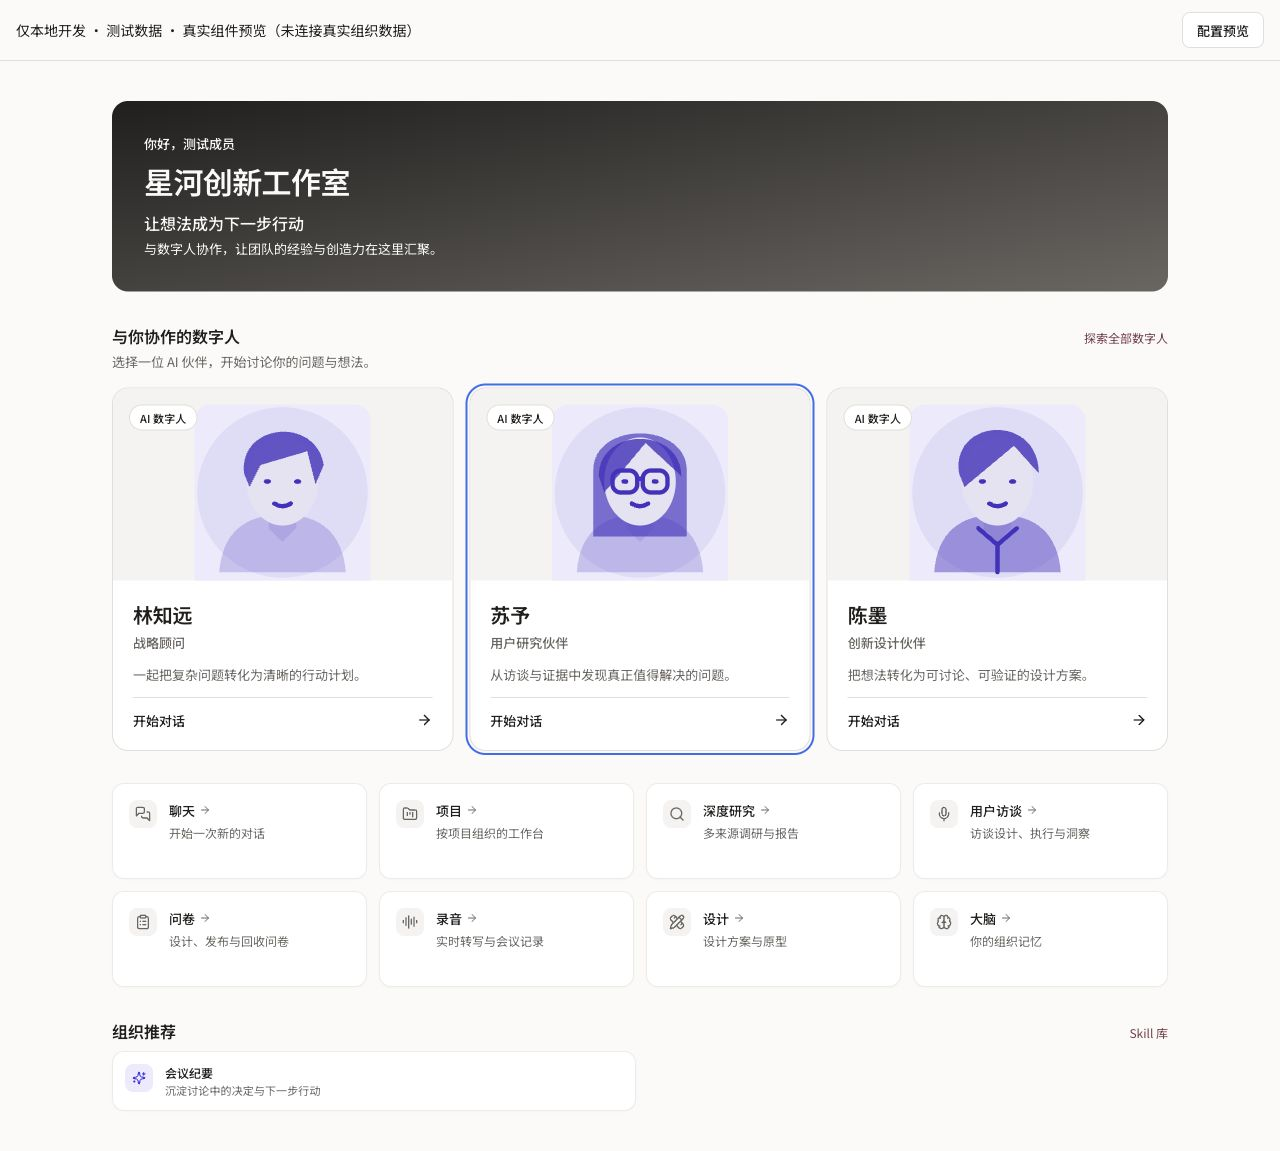
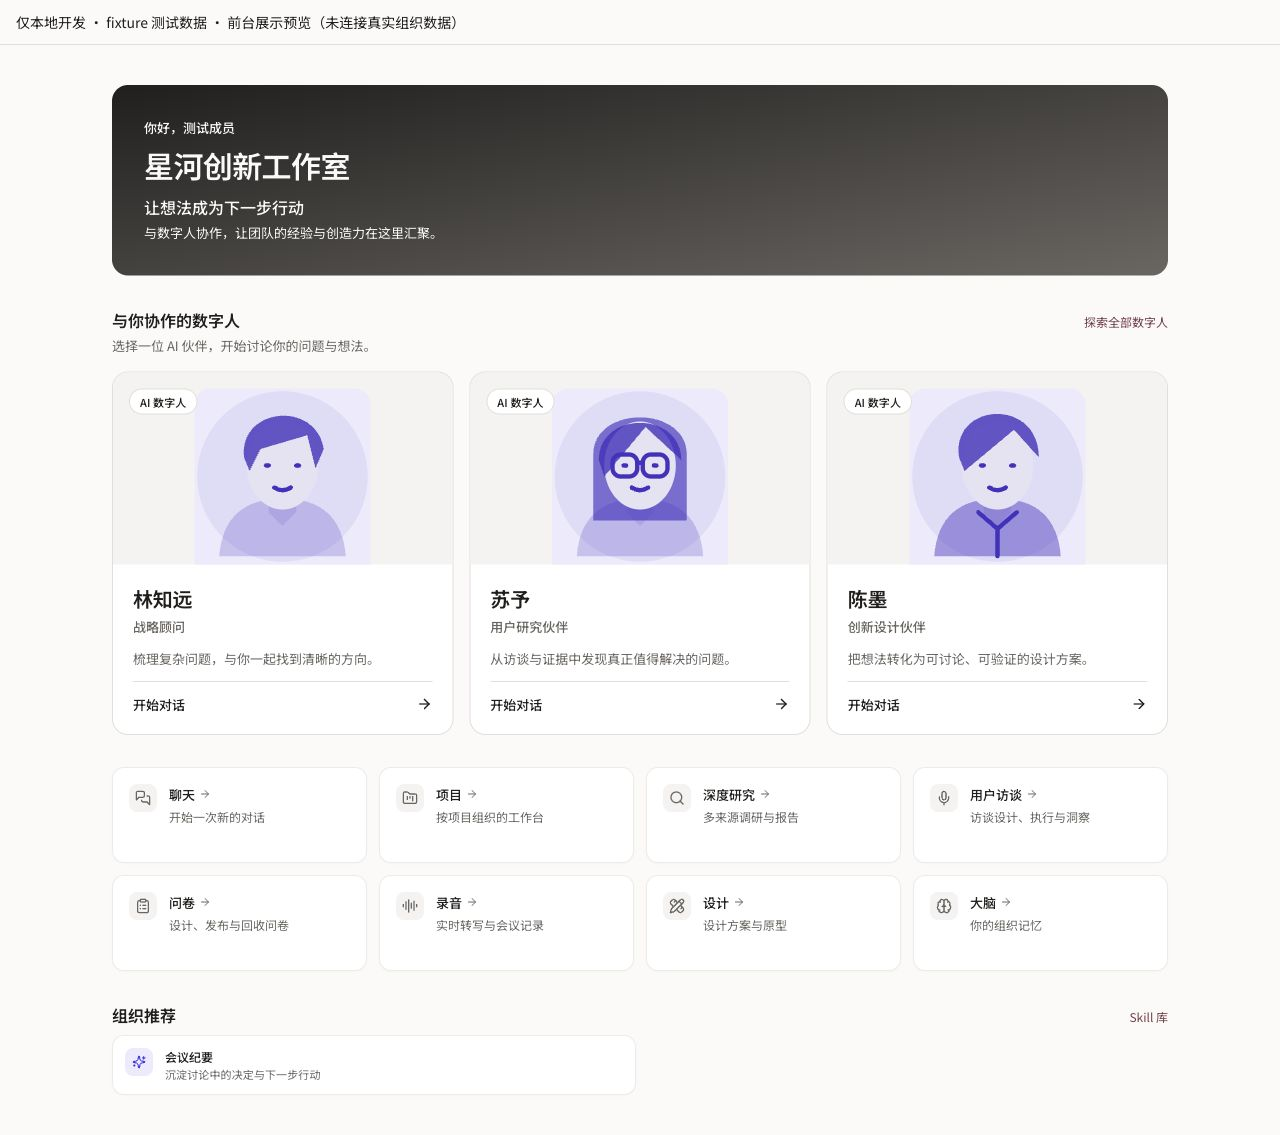
refactor(home): narrow redesign to frontend presentation only

diff --git a/apps/web/tests/ui/home-redesign-presentation.test.tsx b/apps/web/tests/ui/home-redesign-presentation.test.tsx
@@ -1,0 +1,50 @@
+import * as React from "react";
+import { afterEach, describe, expect, it, vi } from "vitest";
+import { cleanup, render, screen } from "@testing-library/react";
+import { HomeView } from "@/components/home/home-screen";
+import { homeThemeStyle } from "@/lib/home-theme";
+import { orgHomeFixture } from "@/tests/fixtures/org-home-redesign";
+
+vi.mock("next/navigation", () => ({ useRouter: () => ({push: vi.fn()}) }));
+vi.mock("@/components/session/session-provider", () => ({useOptionalSession: () => null, useSession: () => ({})}));
+vi.mock("@/components/shell/org-menu", () => ({useOrgAvatarUrl: () => null}));
+vi.mock("@/lib/use-authed-image-src", () => ({useAuthedImageSrc: () => ({src:null})}));
+vi.mock("@/components/home/use-home-work", () => ({
+  useHomeWork: () => ({projects:{status:"ready",items:[]}}), useHomeTasks: () => ({status:"ready",items:null}),
+}));
+afterEach(cleanup);
+describe("前台人物展示读取既有配置", () => {
+  it("展示配置里的角色、用途、头像及编码后的对话入口，不修改输入配置", () => {
+    const config = structuredClone(orgHomeFixture);
+    config.recommendedAgents[0].agentId = "a/1";
+    const before = JSON.stringify(config);
+    render(<HomeView config={config} orgId={null} displayName={null}/>);
+    const link = screen.getByRole("link",{name:"与林知远开始对话 · 战略顾问"});
+    expect(link.getAttribute("href")).toBe("/chat?agent=a%2F1");
+    expect(link.textContent).toContain(config.recommendedAgents[0].note);
+    expect(link.querySelector('[data-avatar-key="person-1"]')).not.toBeNull();
+    expect(link.textContent).not.toMatch(/在线|真人/);
+    expect(JSON.stringify(config)).toBe(before);
+  });
+  it("收到新配置时更新人物信息与入口，不保留过期角色或介绍", () => {
+    const view = render(<HomeView config={orgHomeFixture} orgId={null} displayName={null}/>);
+    const updated = {...orgHomeFixture,recommendedAgents:[{...orgHomeFixture.recommendedAgents[0],agentId:"new/agent",name:"新伙伴",roleLabel:"研究顾问",note:"根据已配置资料帮助梳理研究问题",avatarKey:"person-2"}]};
+    view.rerender(<HomeView config={updated} orgId={null} displayName={null}/>);
+    const link = screen.getByRole("link",{name:"与新伙伴开始对话 · 研究顾问"});
+    expect(link.getAttribute("href")).toBe("/chat?agent=new%2Fagent");
+    expect(link.textContent).toContain(updated.recommendedAgents[0].note);
+    expect(screen.queryByTestId("home-agent-fixture-strategy")).toBeNull();
+  });
+  it("组织未推荐数字人时不编造人物列表", () => {
+    render(<HomeView config={{...orgHomeFixture,recommendedAgents:[]}} orgId={null} displayName={null}/>);
+    expect(screen.queryByTestId("home-agents")).toBeNull();
+  });
+  it("应用既有主题配置，品牌色与键盘焦点色来自同一主题", () => {
+    const colors = {...orgHomeFixture.themeColors!,primary:"#135B78"};
+    render(<HomeView config={{...orgHomeFixture,themeColors:colors}} orgId={null} displayName={null}/>);
+    const style = screen.getByTestId("home-screen").style;
+    const expected = homeThemeStyle(colors) as Record<string,string>;
+    expect(style.getPropertyValue("--primary")).toBe(expected["--primary"]);
+    expect(style.getPropertyValue("--ring")).toBe(expected["--ring"]);
+  });
+});

diff --git a/apps/web/components/org-admin/home-config-recommend-sections.tsx b/apps/web/components/org-admin/home-config-recommend-sections.tsx
@@ -3,7 +3,6 @@ import * as React from "react";
 import Link from "next/link";
 import { Plus, Sparkles, Bot, X } from "lucide-react";
 import { Avatar } from "@/components/ui/avatar";
-import { DigitalHumanPortrait } from "@/components/home/digital-human-portrait";
 import { Button } from "@/components/ui/button";
 import { Input } from "@/components/ui/input";
 import { initialsOf } from "@/lib/home-format";
@@ -78,15 +77,14 @@ export function RecommendedAgentsSection({ form, onChange }: Props) {
           <Plus aria-hidden className="h-3.5 w-3.5" />添加数字人
         </Button>
       </div>
-      <p className="text-12 leading-relaxed text-muted-foreground">首页会展示数字人的形象、角色与一句话介绍。成员点击「开始对话」进入对应数字人的对话。</p>
       {form.recommendedAgents.length === 0 ? <p className="text-11 text-muted-foreground">还没有推荐数字人。</p> : (
         <ul className="flex flex-col gap-2">
           {form.recommendedAgents.map((a) => (
             <li key={a.agentId} className="flex items-start gap-2 rounded-card border border-border-subtle bg-card p-2.5" data-testid={`home-config-agent-${a.agentId}`}>
-              <DigitalHumanPortrait avatarKey={a.avatarKey} initials={initialsOf(a.name)} className="h-20 w-20 shrink-0" />
+              <Avatar initials={initialsOf(a.name)} avatarKey={a.avatarKey} tone="ai" size="lg" />
               <div className="flex min-w-0 flex-1 flex-col gap-1">
                 <span className="text-12 font-medium text-card-foreground">{a.name}{a.roleLabel ? <span className="ml-1.5 text-11 font-normal text-muted-foreground">{a.roleLabel}</span> : null}</span>
-                <Input aria-label={`${a.name}的一句话介绍`} value={a.note ?? ""} placeholder="能帮助成员解决什么问题？（最多 80 字）" maxLength={80} onChange={(e) => setNote(a.agentId, e.target.value)} data-testid={`home-config-agent-note-${a.agentId}`} />
+                <Input value={a.note ?? ""} placeholder="一句话介绍（可选，最多 80 字）" maxLength={80} onChange={(e) => setNote(a.agentId, e.target.value)} data-testid={`home-config-agent-note-${a.agentId}`} />
               </div>
               <Button type="button" size="icon" variant="ghost" aria-label={`移除 ${a.name}`} onClick={() => remove(a.agentId)} data-testid={`home-config-agent-remove-${a.agentId}`}>
                 <X aria-hidden className="h-3.5 w-3.5" />

diff --git a/apps/web/app/dev/org-home-fixture/preview.tsx b/apps/web/app/dev/org-home-fixture/preview.tsx
@@ -1,24 +1,13 @@
 "use client";
-import * as React from "react";
 import { HomeView } from "@/components/home/home-screen";
-import { BasicFieldsSection } from "@/components/org-admin/home-config-appearance-section";
-import { RecommendedAgentsSection } from "@/components/org-admin/home-config-recommend-sections";
-import { toFormState, formToPreviewConfig } from "@/components/org-admin/home-config-form-model";
-import { Button } from "@/components/ui/button";
+import { orgHomeFixture } from "@/tests/fixtures/org-home-redesign";
 
-import { orgHomeFixture as fixture } from "@/tests/fixtures/org-home-redesign";
-
+/** Presentation-only preview. No admin editor, save action or authentication override. */
 export function OrgHomeFixture() {
-  const [form, setForm] = React.useState(() => toFormState(fixture));
-  const [editing, setEditing] = React.useState(false);
   return <main className="min-h-screen bg-background text-foreground">
-    <div className="flex flex-wrap items-center justify-between gap-3 border-b border-border px-4 py-3">
-      <p className="text-sm">仅本地开发 · 测试数据 · 真实组件预览（未连接真实组织数据）</p>
-      <Button variant="outline" onClick={() => setEditing(!editing)}>{editing ? "查看首页" : "配置预览"}</Button>
+    <div className="border-b border-border px-4 py-3">
+      <p className="text-sm">仅本地开发 · fixture 测试数据 · 前台展示预览（未连接真实组织数据）</p>
     </div>
-    {editing ? <div className="mx-auto grid max-w-6xl gap-6 p-4 lg:grid-cols-2">
-      <div className="space-y-4"><BasicFieldsSection form={form} onChange={setForm} /><RecommendedAgentsSection form={form} onChange={setForm} /></div>
-      <div className="min-w-0"><p className="text-xl font-semibold">成员所见 · 未保存配置预览</p><HomeView config={formToPreviewConfig(form,"fixture-only")} orgId={null} displayName="测试成员" /></div>
-    </div> : <HomeView config={formToPreviewConfig(form,"fixture-only")} orgId={null} displayName="测试成员" />}
+    <HomeView config={orgHomeFixture} orgId={null} displayName="测试成员" />
   </main>;
 }

diff --git a/docs/design/org-home-page/redesign-20261014/README.md b/docs/design/org-home-page/redesign-20261014/README.md
@@ -1,60 +1,43 @@
-# 组织首页：数字人协作体验重设计
+# 组织首页前台展示重设计
 
-基线：最新远端 main `98168015c`。既有首页追踪项：Refs #4634。草稿 PR：https://github.com/boardx/workspacex/pull/5699。
+当前范围：只改前台展示。后台配置界面、字段、提交体、数据结构、API 与认证保持原基线。用户已明确要求“后台不要改，只改前段的展示，需要展示的更专业”。本 PR 已撤回此前引入的后台人物编辑界面改动、编辑 fixture 和保存闭环测试。
 
-## 范围与证据
+基线：origin/main `98168015c`。草稿 PR：https://github.com/boardx/workspacex/pull/5699。Refs #4634。
 
-用户确认后台配置后列表已经可见，本次改善的是人物形象、角色/能力说明和首次互动入口，不把可见性当 Skill/Workflow 执行验收。参考附件未收到，不声称看过。
+## 当前设计
 
-现状 /home 在本地跳到登录页；现有 Mac Chrome 页签仅有正式应用域名，没有可确认的非生产会话。没有读取密码/令牌或进入生产数据。后续由用户明确授权使用本地 fixture 继续。所有截图均是实际 HomeView、BasicFieldsSection 与 RecommendedAgentsSection 渲染，搭配明确标注的测试数据，**不是真实组织截图，也不是完整后台鉴权页面截图**。
+- 数字人成为首页主要协作对象：完整人物形象、姓名、角色、既有配置的用途说明及明确“开始对话”入口。
+- 使用现有第一方头像与插画，不臆造身份、在线状态、真实视频或新能力。未知头像保留首字母回落，以通用 AI 图形辅助。
+- 品牌欢迎区更紧凑、标题层级清晰；Logo 在手机也可展示。原有 Logo 上传、自动主题提取及配置读取实现没有改动。
+- 工具入口改为轻量中性面板，减少颜色噪音；网格按可用容器宽度排版，长文案完整换行。
+- 链接保留现有 /chat?agent=，带姓名与角色的可访问名称、键盘焦点环和符合减少动效偏好的提示。
 
-## 审查步骤
+## 截图与审查
 
-1. 修改前首页（01-before-home-fixture.png）：功能入口可识别，但八个大卡占据首屏；数字人只有小头像，人物和角色权重弱，互动没有清晰动词。
-2. 修改后首页（02-after-home-fixture.png）：欢迎区更紧凑，数字人优先；完整人物插画、角色、介绍与“开始对话”形成连贯入口。快捷入口改为中性小面板，减少颜色和视觉噪音。
-3. 后台配置组件（03-after-config-fixture.png）：人物形象与前台共用；介绍输入具有明确可访问名称和能力说明提示。编辑介绍立即更新预览。
-4. 手机配置预览与首页（04-config-mobile.png / 05-home-mobile.png）：375px 无横向溢出，文本完整换行，人物入口有可见焦点。
+仅本地开发的 fixture 明确标注测试数据，复用真实 HomeView。不是真实组织截图，不代表真实服务或能力执行验收。开发预览只在 NODE_ENV=development 且 WSX_HOME_FIXTURE=1 时可用，没有后台编辑器、保存动作或认证覆盖。
 
-## 设计原则与实现
-
-- 数字人是 AI 协作伙伴，有形象、有角色、有说明、有行动入口；明确标注 AI，无真人在线状态。
-- 只使用现有第一方插画/静态头像，不引入真人视频、模型调用、付费服务或新头像数据协议。
-- 未知头像继续保留首字母回落；通用机器人辅助表现 AI 身份，不猜测人物外貌。
-- 让协作对象优先，工具入口退为紧凑中性面板。所有交互使用语义主题 token 和焦点环。
-- Grid 根据容器实际宽度自动排版，后台窄预览不会沿用整屏桌面列数。
-- 组织 Logo 在手机上也可呈现；现有鉴权图片读取、Logo 上传、自动计算配色、保存与主题应用链路保持原有实现。
-- 同一 HomeView 继续服务首页与后台预览；权限守卫、API、契约、数据库和发布管线均没有修改。
+1. 修改前首页（01-before-home-fixture.png）：八个大工具入口占据主体，数字人只有小头像与文本，人物角色与互动权重弱。
+2. 修改后首页（02-after-home-fixture.png）：人物与协作入口清晰，欢迎区和工具入口更克制。
+3. 手机首页（05-home-mobile.png）：375px 无横向溢出，人物、角色、说明及焦点完整可见。
 
 ## 验证
 
-- ./init.sh 快速路径通过。
-- Web typecheck、完整 lint（含设计 lint、light scope token 检查）通过。
-- 72 项测试通过：现有首页/后台配置/主题/表单测试，加两项介绍编辑与移除绑定测试及三项 fixture 开发/生产门禁测试。
-- 实际内置浏览器测量：首页和配置预览在 375/768/1280px，documentElement.scrollWidth 均等于 viewport width（browser-checks.json）。
-- 键盘 Tab 到数字人入口后 activeElement 有姓名+角色名称、明确焦点环（keyboard.json）。
-- 深链保留 /chat?agent=；组件测试验证 agentId URL 编码，未调用模型或执行 Skill。
+- 74 项测试通过：既有首页/后台/主题/模型回归，加四项前台展示测试和三项开发 fixture 门禁测试。
+- 前台展示测试验证读取既有配置、角色/用途/头像与 URL 编码、更新配置后无旧人物信息残留、空配置不编造人物、主题与焦点色绑定，不开发后台保存流程。
+- Web typecheck、完整 Web lint、能力列表 lint 与 ui-wiring 均通过。
+- 浏览器验证 375/768/1280px 首页布局无横向溢出，人物链接有明确名称和可见键盘焦点。
+- 后台组件、表单模型、API 适配器、配置契约与原基线零差异；没有改权限、数据、生产或发布管线。
 
 ## 验证边界
 
-fixture 只在 NODE_ENV=development 且 WSX_HOME_FIXTURE=1 时可访问，生产/未启用时 notFound。它不改变认证逻辑，也不保存真实配置。
+只读确认本机没有运行中的 Docker 容器，也没有可用非生产 API/对象存储监听；Mac 浏览器只有正式应用页签，没有可确认的非生产会话。未读取密码令牌或使用生产写操作。
 
-真实 API 的 Logo 上传→组织头像持久化→自动主题→配置保存→成员重载、真实 Agent 对话启动仍待非生产全栈环境验证。当前结论是组件数据绑定、呈现、入口和响应式验证通过，不声明端到端持久化、Skill/Workflow 执行或完整 WCAG 合规。
+真实鉴权读取与数字人对话启动仍未实测。列表呈现与链接不是 Skill/Workflow 执行验收。后台保存与刷新闭环已从本次开发范围移除。
 
-本地复核：`WSX_HOME_FIXTURE=1 pnpm --filter web dev --hostname 127.0.0.1 --port 3048`，打开 `/dev/org-home-fixture`。所有命令日志与截图在 evidence/。
+Library 上传入口不可用；截图可通过 PR 中的文件链接交付，已验证历史截图的远端下载与本地原图哈希一致。最终前台截图将随本次收窄更新。
 
-![修改前：测试数据](evidence/01-before-home-fixture.png)
+本地复核：`WSX_HOME_FIXTURE=1 pnpm --filter web dev --hostname 127.0.0.1 --port 3048`，打开 `/dev/org-home-fixture`。
 
-![修改后：测试数据，包含键盘焦点](evidence/02-after-home-fixture.png)
+![修改前：fixture 测试数据](evidence/01-before-home-fixture.png)
 
-## CI 修复与附件交付
-
-精确提交 bcdd228f0 的 CI 曾失败于新增开发路由未登记、fixture 能力样例位于产品扫描目录。两者均属于本次改动，已修复：明确测试数据移入 tests/fixtures，给开发路由登记精确 previewPrefix，并使用正式生成器产出的路由事实；没有放宽生产守卫。新增生产即使开关开启也拒绝、开发未启用开关拒绝的负向测试。完整 API lint、ui-wiring、Web lint/typecheck 和 72 项测试均通过。
-
-Library 上传入口在当前执行连接不可用（没有准备上传会话或创建文件）。两张已在 PR 中交付的不可变截图下载链接已成功下载且与本地原图 SHA-256 一致：
-
[2 lines of base64/hex data omitted]
-
-[首页附件（fixture 测试数据）](https://raw.githubusercontent.com/boardx/workspacex/bcdd228f0cc815b099455f006a4915f605dd6fdf/docs/design/org-home-page/redesign-20261014/evidence/02-after-home-fixture.png)
-
-[配置附件（fixture 测试数据）](https://raw.githubusercontent.com/boardx/workspacex/bcdd228f0cc815b099455f006a4915f605dd6fdf/docs/design/org-home-page/redesign-20261014/evidence/03-after-config-fixture.png)
+![修改后：fixture 测试数据](evidence/02-after-home-fixture.png)

diff --git a/docs/design/org-home-page/redesign-20261014/plan.md b/docs/design/org-home-page/redesign-20261014/plan.md
@@ -1,14 +1,14 @@
-# 执行计划 — 组织首页协作体验重设计
+# 执行计划 — 组织首页前台展示重设计
 
 > 规范：`.harness/instructions/execution-plan-visualization.md`。
 > 改状态用 `node .harness/scripts/execution-plan.mjs set <本文件> <节点> <状态>`，
 > 改完 `check` 一遍；不要手改 classDef 颜色。
 
 ## 我理解的目标
-- **目标**：用完整人物形象、角色说明和明确互动入口改善组织首页与配置体验
-- **完成判据**：Web 类型检查、完整 lint、72 项相关测试与三档浏览器布局检查通过，草稿 PR 可审查
-- **不做什么**：不部署、不合并、不修改认证/API/数据库，不执行模型、Skill 或 Workflow
-- **假设与待确认**：用户已授权 fixture；真实 API 绑定待非生产环境验证
+- **目标**：用完整人物形象、角色说明和明确互动入口改善组织首页前台展示体验
+- **完成判据**：Web 类型检查、完整 lint、74 项相关测试与三档浏览器布局检查通过，草稿 PR 可审查
+- **不做什么**：不改后台配置界面/字段/提交体/数据结构；不部署、不合并、不修改认证/API/数据库，不执行模型、Skill 或 Workflow
+- **假设与待确认**：用户已授权 fixture；只改前台；真实鉴权读取与人物对话待非生产环境验证，后台保存闭环不在范围内
 
 ## 执行计划
 
@@ -25,7 +25,7 @@ flowchart TD
 
   G --> S1 --> S2 --> S3 --> S4 --> S5
 
-  classDef todo fill:#e5e7eb,stroke:#6b7280,color:#111827
+  classDef todo fill:#e5e7eb,stroke:#6b7480,color:#111827
   classDef doing fill:#fde68a,stroke:#d97706,color:#111827
   classDef done fill:#bbf7d0,stroke:#16a34a,color:#111827
   classDef tested fill:#ddd6fe,stroke:#7c3aed,color:#111827
@@ -36,7 +36,7 @@ flowchart TD
   class S2 done
   class S3 done
   class S4 tested
-  %% evidence S4: 72 tests, typecheck, full lint; evidence/ logs and browser-checks.json
+  %% evidence S4: 74 tests, typecheck, full lint; evidence/ logs and browser-checks.json
   class S5 done
 ```
 

diff --git a/.agents/skills/mod-org-identity/SKILL.md b/.agents/skills/mod-org-identity/SKILL.md
@@ -50,7 +50,6 @@ description: >
 3. 交付：`verify --sprint` 门控；PR 描述里写清对鉴权/权限面的影响面。
 
 ## 踩坑与经验（append-only，最新在上）
-- 2026-10-14：首页和后台预览共用 HomeView 时，推荐人物与快捷入口的列数应按容器实际可用宽度自动排版，不能仅按整个 viewport 分列，否则后台窄预览会把人物与文案挤窄；保持表单→预览→提交体共用配置模型（Refs #4634；证据 docs/design/org-home-page/redesign-20261014/）。
 - 2026-10-07：现有账号创建组织必须独立于匿名注册；幂等 key 绑定认证用户，组织/管理员成员/系统 Agent/收据共用同一 `withTenant` 事务。套餐缺省保持未配置，不继承来源租户预算/模型；会话列表须在存储锁内合并最新版本避免并发响应覆盖（issue #5494；`evidence/org-create-5494/README.md`）。
 - 2026-09-15：反馈正文 D3 遮蔽后，收件箱侧表标签合并仍可能重新暴露提交人自由文本；共用 `applyTags` 必须保留 `body === null` 的既有披露结果，在标签筛选和 byTag 计数之前清空标签。只测 listFeedback 输出不足，必须覆盖最终 Inbox 列表、私有/共享标签过滤与计数、归档视图（issue #3633）。
 - 2026-09-13：注册入口验收须分别走组织自助注册、单人邀请 `?t=` 与共享邀请 `?lt=`；邀请激活曾调用会话存储却丢弃返回的 bearer，仅回传不能认证的 sessionId，导致完成页仍要求登录。交付应验证标准会话 hydrate、正确组织与刷新持久，且不得覆盖已有/并发切换的账号；会话签发在 PG 激活提交之后，失败不能承诺邀请未消费（出处：issue #3600，前序修复 #3596 / PR #3599 的漏覆盖）。
